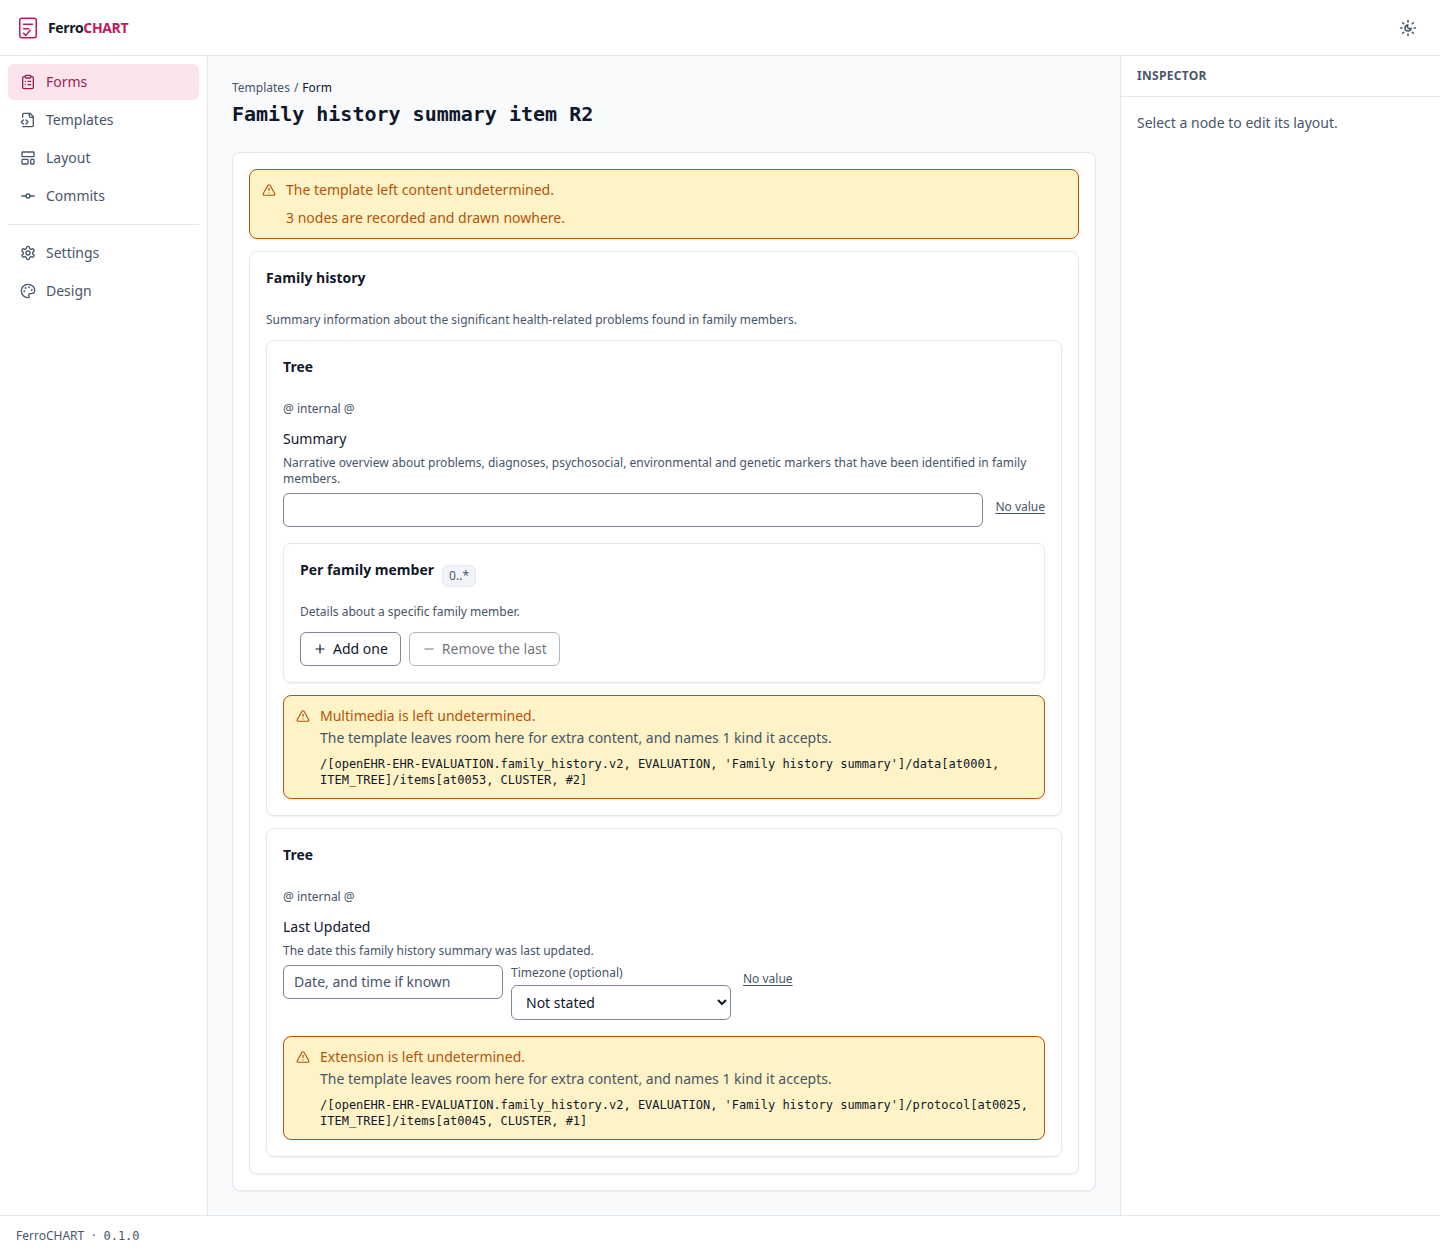
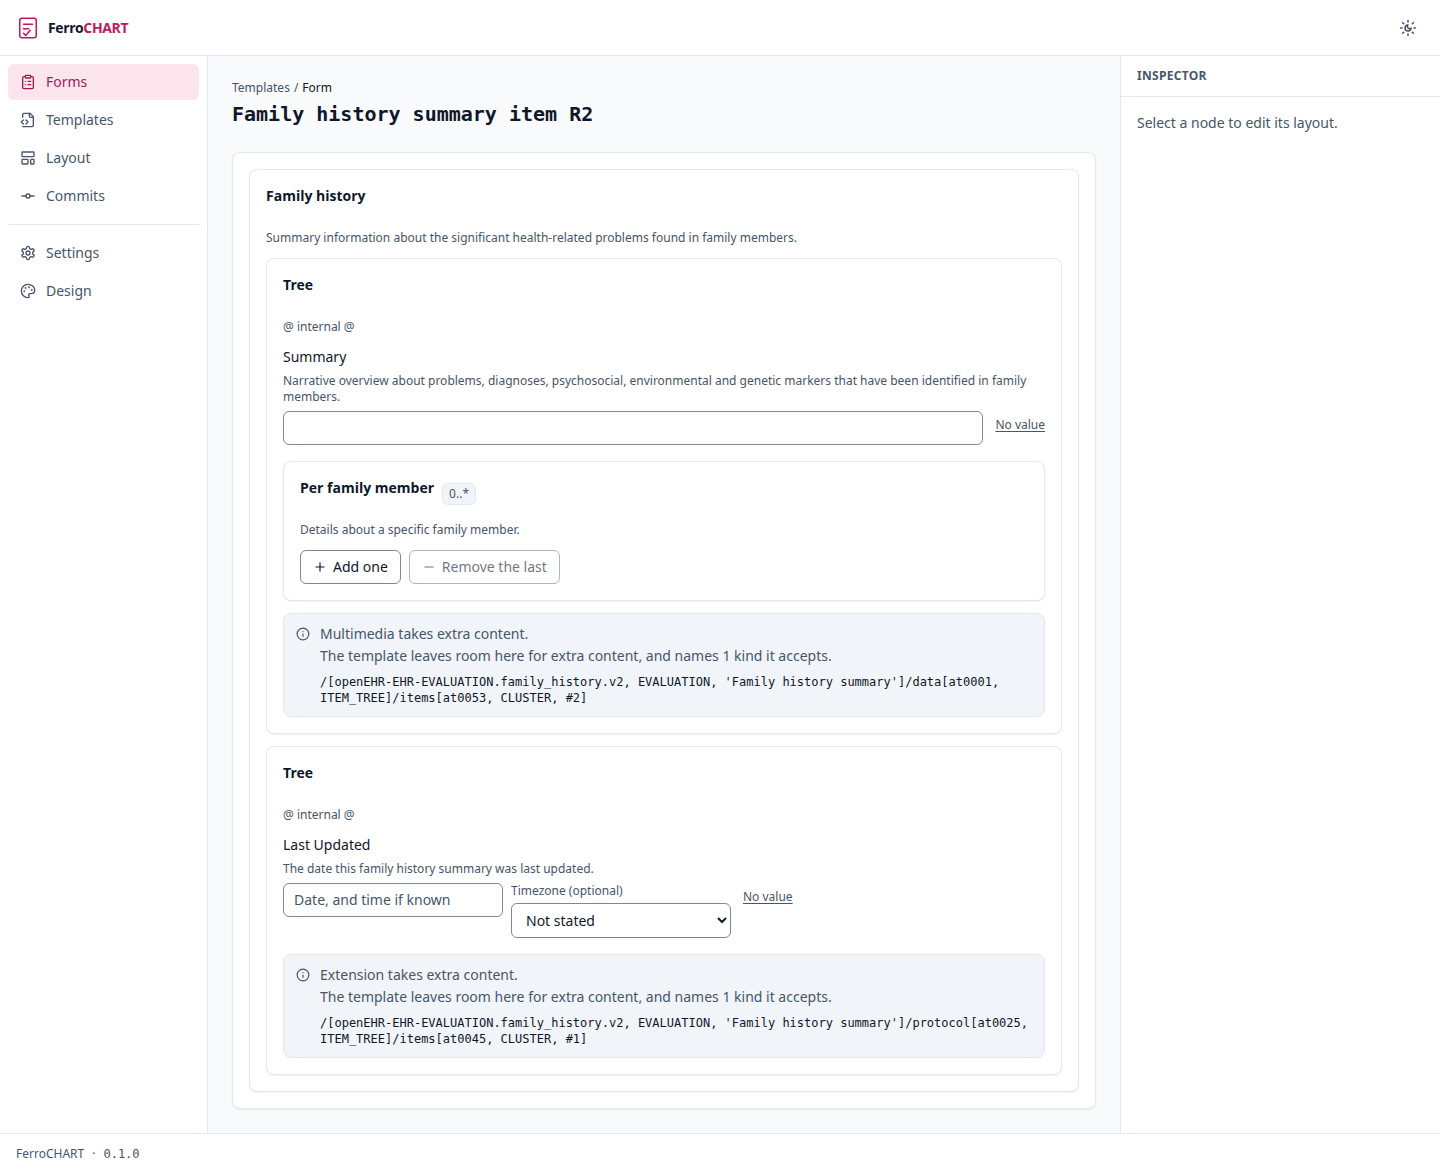
style(renderer): leptosfmt over the view macros
`cargo fmt` leaves the inside of a `view!` macro alone, so the renderer
job runs `leptosfmt --check` beside it and that is what went red on the
pull request while every local gate reported clean.

diff --git a/app/ferrochart-renderer/src/control/undetermined.rs b/app/ferrochart-renderer/src/control/undetermined.rs
@@ -1,11 +1,14 @@
 // SPDX-FileCopyrightText: Ruben Talstra
 // SPDX-License-Identifier: BUSL-1.1
 
-//! Content the operational template did not determine.
+//! Content the operational template did not determine, and content it left
+//! room for.
 //!
-//! It captures nothing and it is never skipped. The whole point of recording
-//! it is that a person can see the template left a hole rather than that the
-//! compiler lost one, so it is drawn where the content would have been.
+//! Neither captures anything and neither is ever skipped, because the point of
+//! recording one is that a person can see the template left it rather than
+//! that the compiler lost it. The two read differently, though: an open
+//! archetype slot is a place the template meant to leave open, and a value it
+//! never typed is a hole (issue #180).
 
 use ferrochart_form::group::{UndeterminedContent, UndeterminedReason};
 use ferrochart_form::ids::LanguageTag;
@@ -63,6 +66,17 @@ fn plural(count: usize, one: &'static str, many: &'static str) -> &'static str {
     if count == 1 { one } else { many }
 }
 
+/// Whether the reason is a place to add content rather than a hole.
+///
+/// openEHR AM Release-2.3.0 `AOM2.html` section 4.5.8 gives `ARCHETYPE_SLOT`
+/// the attribute `is_closed`, "closed to further filling either in further
+/// specialisations or at runtime", and defaults it to false. So an open slot
+/// is a runtime extension point the template meant to leave open, and drawing
+/// it as a warning said the template had gone wrong (issue #180).
+const fn is_a_place_to_add(reason: &UndeterminedReason) -> bool {
+    matches!(*reason, UndeterminedReason::OpenSlot { .. })
+}
+
 /// The hole the template left, drawn where the content would have been.
 #[component]
 #[expect(
@@ -81,11 +95,21 @@ pub(crate) fn UndeterminedView(
         &content.key,
         &crate::plain::describe(content.rm_type.as_str()),
     );
-    let title = format!("{label} is left undetermined.");
+    let extendable = is_a_place_to_add(&content.reason);
+    let title = if extendable {
+        format!("{label} takes extra content.")
+    } else {
+        format!("{label} is left undetermined.")
+    };
+    let tone = if extendable {
+        Tone::Neutral
+    } else {
+        Tone::Warn
+    };
     let path = content.key.to_string();
 
     view! {
-        <Notice tone=Tone::Warn title=title detail=why(&content.reason)>
+        <Notice tone=tone title=title detail=why(&content.reason)>
             <p class=CODE>{path}</p>
         </Notice>
     }
@@ -156,5 +180,25 @@ mod tests {
         assert!(super::open_slot(3, 2).contains("names 3 kinds it accepts"));
         assert!(super::open_slot(3, 2).contains("rules out 2 kinds."));
         assert!(super::open_slot(0, 0).contains("never says what fits"));
+    }
+    #[test]
+    fn an_open_slot_is_a_place_to_add_and_not_a_hole() {
+        // openEHR AM Release-2.3.0 `AOM2.html` section 4.5.8 defaults
+        // `is_closed` to false, so a slot that survived into the template is
+        // one it meant to leave open (#180).
+        assert!(super::is_a_place_to_add(&UndeterminedReason::OpenSlot {
+            includes: vec![],
+            excludes: vec![],
+        }));
+    }
+
+    #[test]
+    fn a_value_the_template_never_typed_is_still_a_hole() {
+        assert!(!super::is_a_place_to_add(
+            &UndeterminedReason::UnconstrainedValue
+        ));
+        assert!(!super::is_a_place_to_add(
+            &UndeterminedReason::UntypedInterval
+        ));
     }
 }

diff --git a/app/ferrochart-renderer/src/screen/form.rs b/app/ferrochart-renderer/src/screen/form.rs
@@ -99,7 +99,19 @@ pub(crate) fn Form() -> impl IntoView {
 /// The whole form of one definition, drawn as controls a clinician fills.
 fn tree(definition: &FormDefinition) -> AnyView {
     let language = definition.default_language.clone();
-    let undetermined = definition.undetermined().count();
+    // An open slot is a place the template deliberately left for extra
+    // content (openEHR AM Release-2.3.0 `AOM2.html` section 4.5.8), so it is
+    // not counted here. Counting it made every form of the committed pack open
+    // with a warning about itself, 116 of 121 of them (issue #180).
+    let undetermined = definition
+        .undetermined()
+        .filter(|content| {
+            !matches!(
+                content.reason,
+                ferrochart_form::group::UndeterminedReason::OpenSlot { .. }
+            )
+        })
+        .count();
     let unread = (!definition.is_current_format()).then(|| {
         view! {
             <Notice tone=Tone::Warn title="This form states another format version.">
@@ -114,12 +126,15 @@ fn tree(definition: &FormDefinition) -> AnyView {
     let hole = (undetermined > 0).then(|| {
         view! {
             <Notice tone=Tone::Warn title="The template left content undetermined.">
-                {format!("{undetermined} nodes are recorded and drawn nowhere.")}
+                {format!(
+                    "{undetermined} {} recorded and drawn nowhere.",
+                    if undetermined == 1 { "node is" } else { "nodes are" },
+                )}
             </Notice>
         }
     });
     // The state is created from the definition, so a repeatable group opens
-    // showing the occurrences the template requires and never fewer than one.
+    // showing exactly the occurrences the template requires.
     let state = FormState::new(definition);
     view! {
         <div class="space-y-3">

diff --git a/app/ferrochart-renderer/src/control/duration.rs b/app/ferrochart-renderer/src/control/duration.rs
@@ -323,8 +323,7 @@ pub(crate) fn DurationControl(
 
     view! {
         <div class="flex flex-col gap-2">
-            {rows}
-            <Show when=move || !one_unit && shown.get() < most>
+            {rows} <Show when=move || !one_unit && shown.get() < most>
                 <button
                     type="button"
                     class="self-start text-xs text-ink-muted underline underline-offset-2 hover:text-ink"
@@ -332,13 +331,8 @@ pub(crate) fn DurationControl(
                 >
                     "and…"
                 </button>
-            </Show>
-            <Show when=move || signed>
-                <Backwards
-                    id=slot.part("sign")
-                    negative=negative
-                    record=recorder
-                />
+            </Show> <Show when=move || signed>
+                <Backwards id=slot.part("sign") negative=negative record=recorder />
             </Show>
         </div>
         <RefusalNote refused=refused />

diff --git a/app/ferrochart-renderer/src/control/temporal.rs b/app/ferrochart-renderer/src/control/temporal.rs
@@ -512,7 +512,11 @@ fn Timezone(
                 let mine = here.as_deref() == Some(zone.as_str());
                 let value = zone.clone();
                 let text = zone.clone();
-                view! { <option value=value selected=mine>{text}</option> }
+                view! {
+                    <option value=value selected=mine>
+                        {text}
+                    </option>
+                }
             })
             .collect()
     });
@@ -564,9 +568,7 @@ fn Timezone(
                     {options.clone()}
                 </select>
                 <Show when=move || !zone.get().is_empty()>
-                    <span class=HINT>
-                        {move || format!("{} here, at that moment", zone.get())}
-                    </span>
+                    <span class=HINT>{move || format!("{} here, at that moment", zone.get())}</span>
                 </Show>
             </Show>
         </div>
